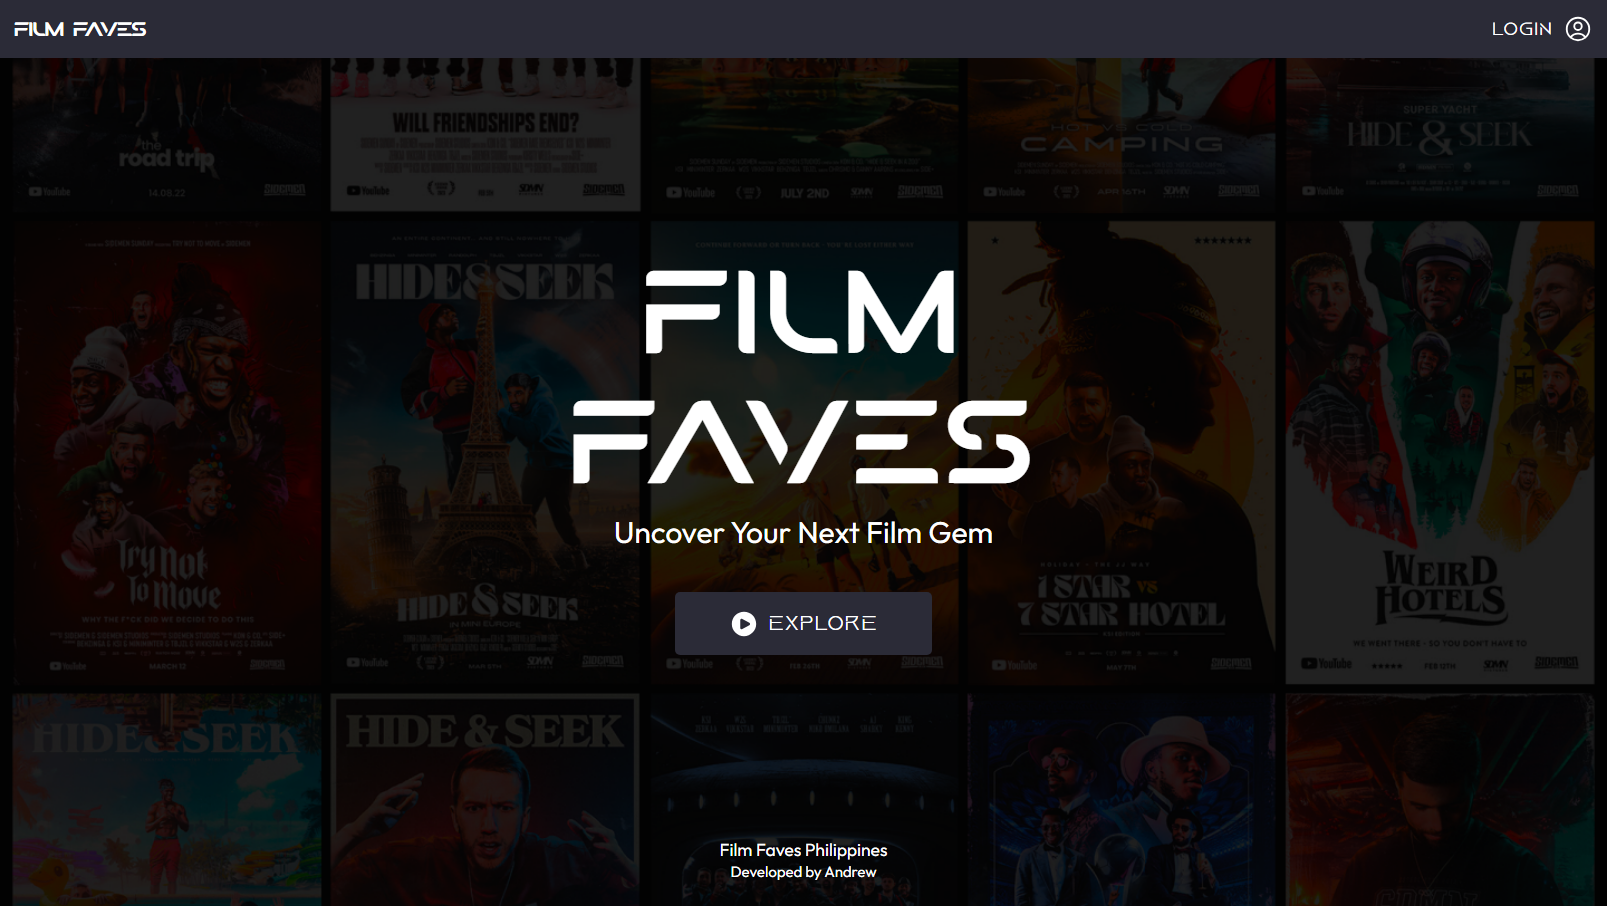
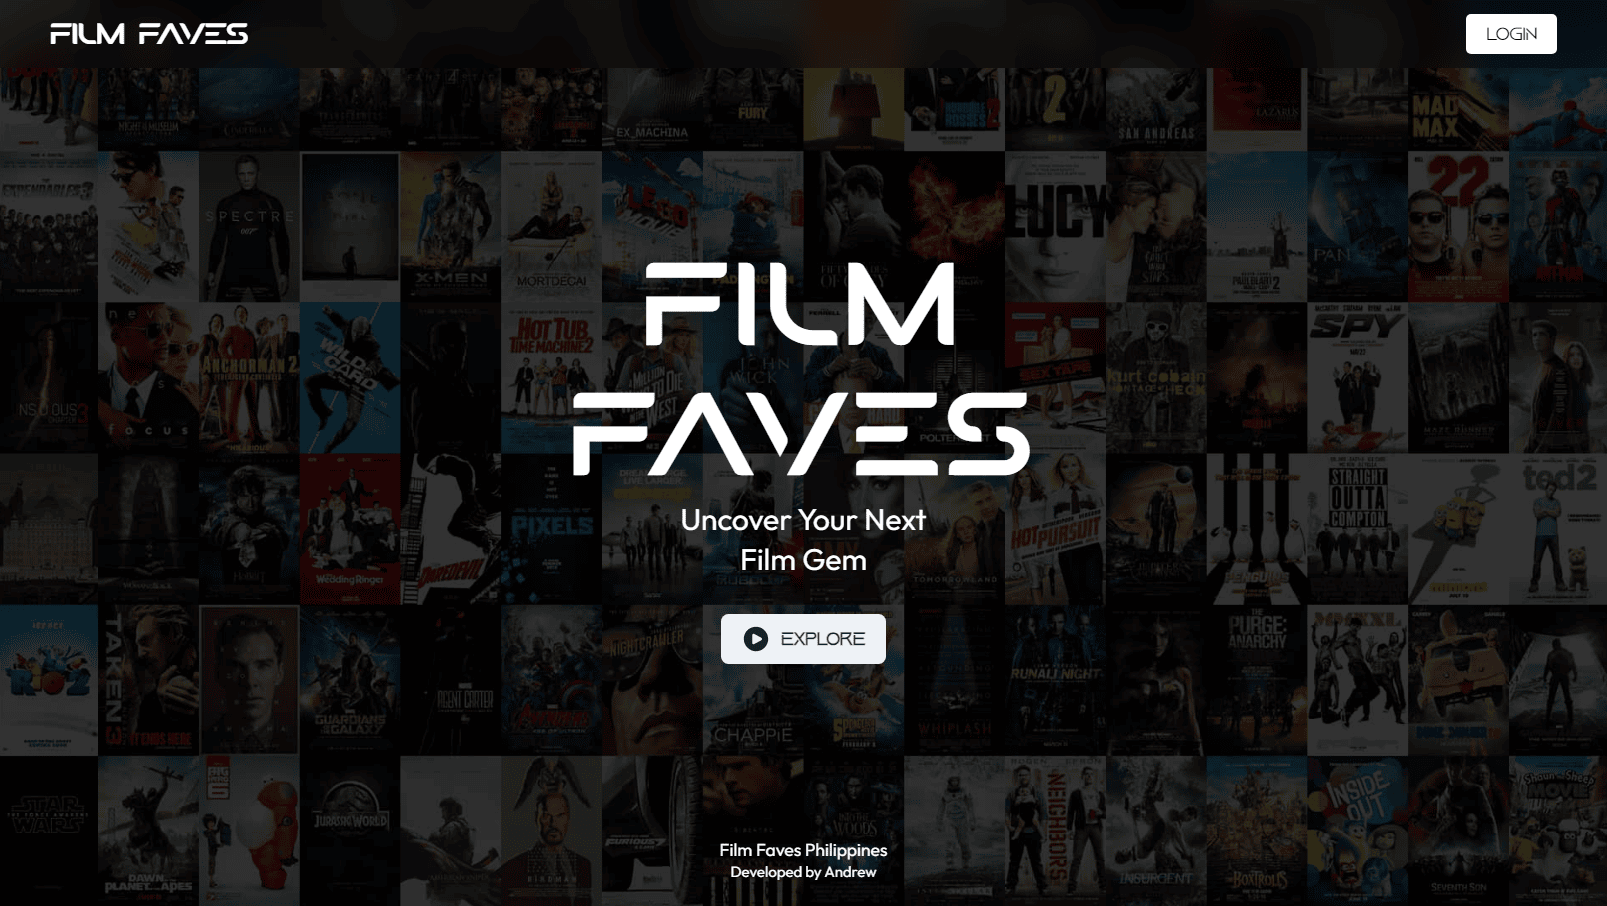
change bg

diff --git a/frontend/src/pages/Recommend.tsx b/frontend/src/pages/Recommend.tsx
@@ -243,7 +243,6 @@ const Recommend = () => {
           <InputField
             title="Title"
             type="text"
-            placeholder="(e.g. Insidious: The Red Door)"
             isInvalid={touched.title && !title}
             onChange={(e) => setTitle(e.target.value)}
             onBlur={onBlur}
@@ -255,7 +254,6 @@ const Recommend = () => {
           <InputField
             title="Year"
             type="number"
-            placeholder="(e.g. 2023)"
             isInvalid={touched.release_date && !releaseDate}
             onChange={(e) => setReleaseDate(e.target.value)}
             onBlur={onBlur}
@@ -267,7 +265,6 @@ const Recommend = () => {
           <InputField
             title="Genre"
             type="text"
-            placeholder="(e.g. Horror)"
             isInvalid={touched.genre && !genre}
             onChange={(e) => setGenre(e.target.value)}
             onBlur={onBlur}
@@ -280,11 +277,10 @@ const Recommend = () => {
             isInvalid={touched.description && !description}
             isRequired
           >
-            <FormLabel className="font-aquire">Description:</FormLabel>
+            <FormLabel className="font-aquire">Review:</FormLabel>
             <Textarea
               rows={3}
               cols={0}
-              placeholder="(e.g. Lambert's school drop-off turns chilling as demons resurface.)"
               onChange={handleDescriptionLimit}
               value={description}
               name="description"
@@ -305,7 +301,6 @@ const Recommend = () => {
             <Textarea
               rows={2}
               cols={0}
-              placeholder="(e.g. https://sflix.to/movie/free-insidious-the-red-door-hd-98131)"
               onChange={(e) => setLink(e.target.value)}
               value={link}
               name="link"

diff --git a/frontend/src/index.css b/frontend/src/index.css
@@ -31,7 +31,7 @@ html {
 }
 
 .bg {
-  background: url(/images/hero/bg.png);
+  background: url(/images/hero/footer-bg.jpg);
   background-position: center;
   background-size: cover;
   min-height: 100vh;
@@ -86,8 +86,6 @@ html {
 .card-info {
   min-height: 140px;
 }
-
-/*  */
 
 .form {
   max-width: 400px;
